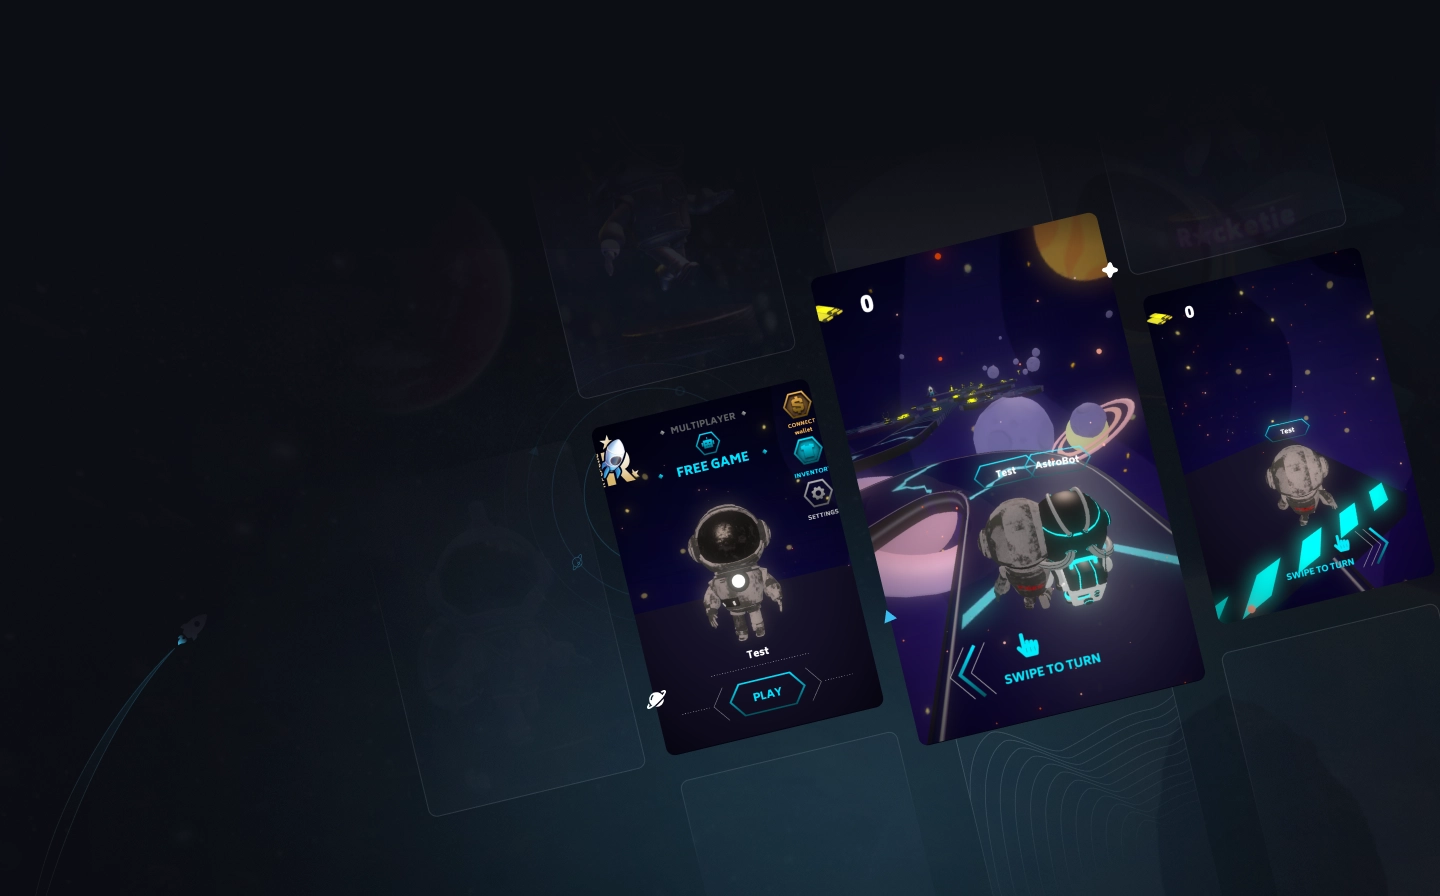
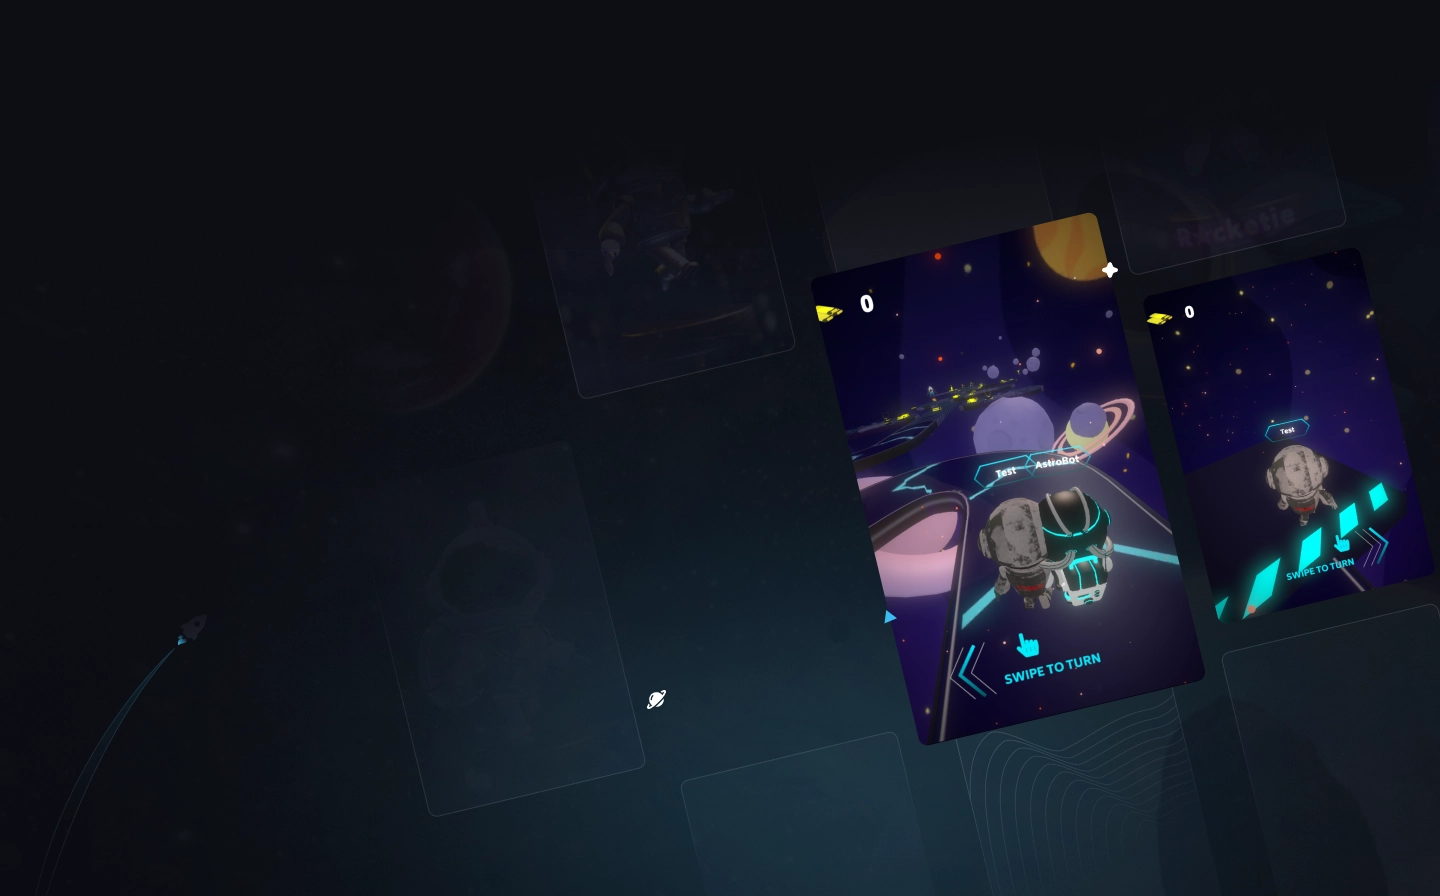
fix card over the orbit

Changed region(s): [[0.4375, 0.4375, 0.625, 0.8438], [0.4062, 0.4688, 0.4375, 0.5625]]

diff --git a/styles/Home.module.css b/styles/Home.module.css
@@ -23,8 +23,20 @@
 .orbit1 {
     position: absolute;
     top: 248px;
-    left: 489px;
+    left: 35%;
     z-index: -100;
+}
+
+.card2 img {
+    position: absolute;
+    rotate: -13.42deg;
+    top: 43%;
+    right: 41%;
+    z-index: -1;
+}
+
+.card2Mobile {
+    display: none;
 }
 
 .nav {
@@ -66,6 +78,12 @@
     font-weight: bold;
     font-size: 13px;
     cursor: pointer;
+}
+
+.nav button:hover {
+    background-color: #39BEF0;
+    border: solid 1px #39BEF0;
+    transition: 0.4s;
 }
 
 .hero {
@@ -309,8 +327,8 @@
 }
 
 .roadmapBtns button {
-    z-index: 1;
     cursor: pointer;
+    z-index: 100;
 }
 
 .roadmapBtns button:first-of-type {
@@ -321,6 +339,7 @@
     font-weight: bold;
     font-size: 13px;
     border: none;
+    z-index: 100;
 }
 
 .roadmapBtns button:nth-of-type(2) {
@@ -346,7 +365,7 @@
 
 .ellipse3 {
     position: absolute;
-    top: -140px;
+    top: -70px;
     right: 0;
     width: 100vw;
     height: 190px;
@@ -726,7 +745,19 @@
         left: -100px;
         z-index: -10;
     }
+
+    .card2 {
+        display: none;
+    }
     
+    .card2Mobile {
+        display: block;
+        position: absolute;
+        top: 490px;
+        left: 18%;
+        rotate: -13.42deg;
+    }
+
     .nav {
         padding: 18px 41px;
     }

diff --git a/pages/index.js b/pages/index.js
@@ -33,6 +33,8 @@ export default function Home() {
       <main className={styles.container}>
         <div className={styles.heroBG}>
           <div className={styles.orbit1}><Orbit/></div>
+          <div className={styles.card2}><img src="/card2.png" alt="card" /></div>
+          <div className={styles.card2Mobile}><img src="/card2-mobile.png" alt="card" /></div>
           <nav className={styles.nav}>
             <Image src="/logo.png" height={75} width={75} alt="logo" />
             <ul>
